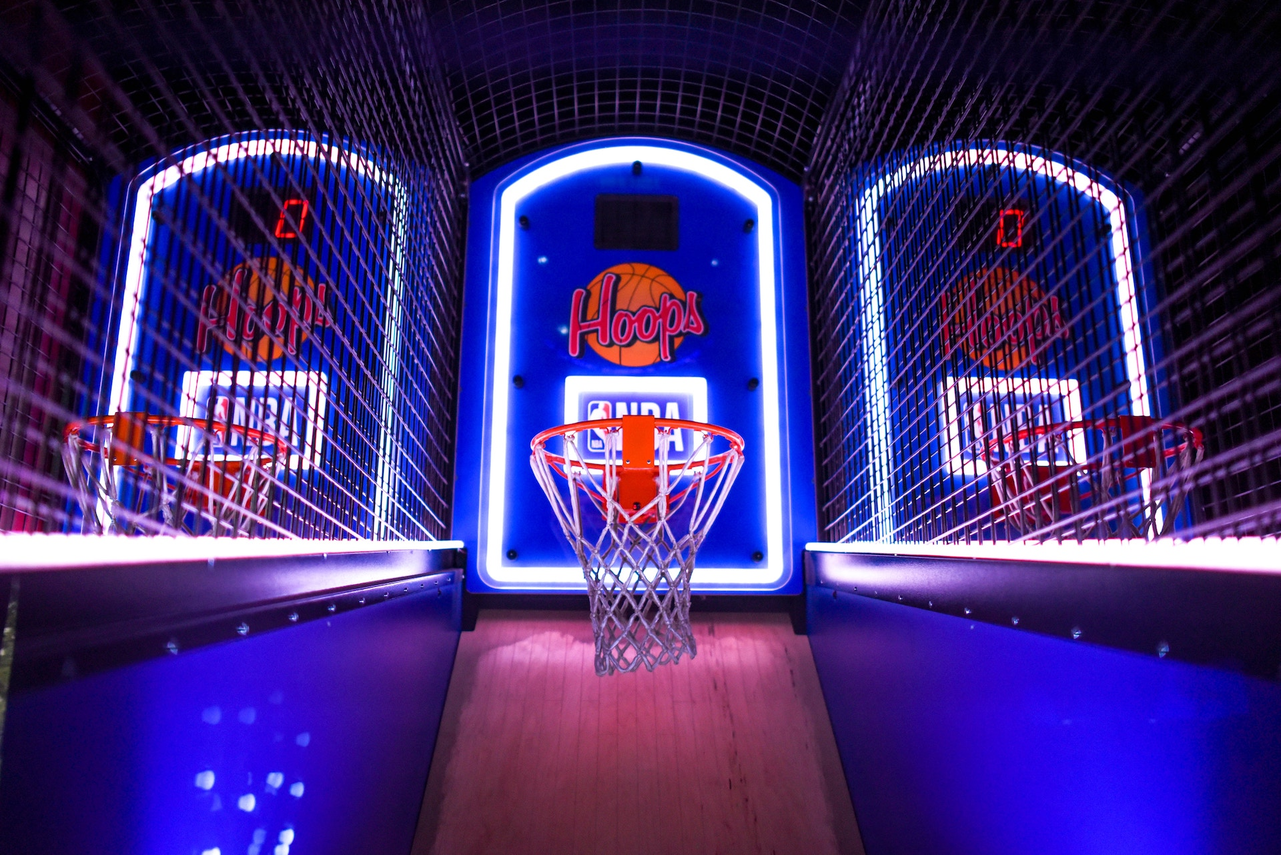
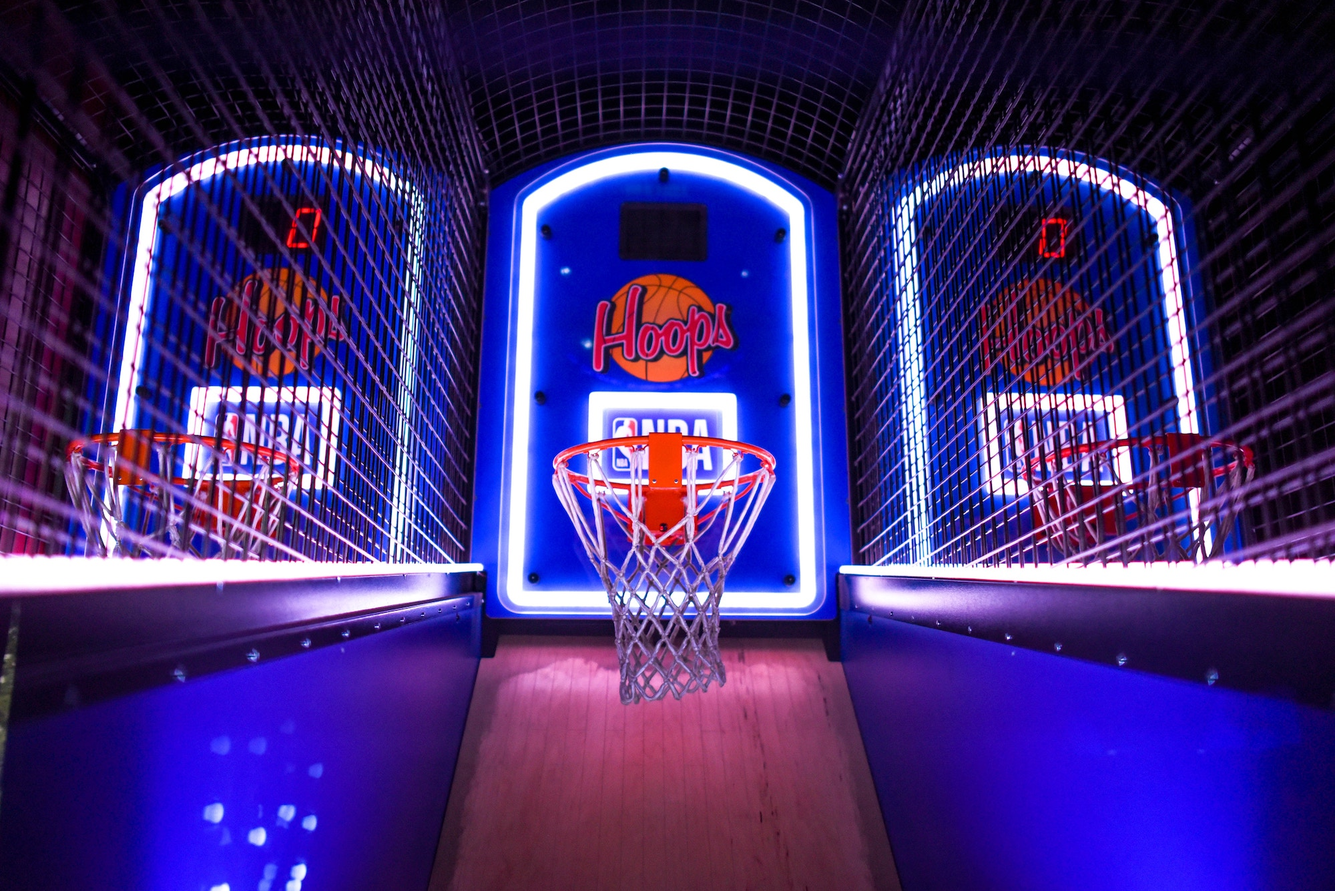
Reduce number of responsive images from four to three

diff --git a/pages/index.js b/pages/index.js
@@ -16,39 +16,44 @@ export default () => (
 
       <Featured>
         <Card1
-          s="/static/s-lemur.jpg"
-          m="/static/m-lemur.jpg"
-          l="/static/l-lemur.jpg"
-          xl="/static/xl-lemur.jpg"
+          s="/static/s-tide.jpg"
+          m="/static/m-tide.jpg"
+          l="/static/l-tide.jpg"
         />
         <MiddleSet>
+          <Card2
+            s="/static/s-lemur.jpg"
+            m="/static/m-lemur.jpg"
+            l="/static/l-lemur.jpg"
+            summaryTitle="This is a headline."
+            summaryBlurb="This is an article summary. You should definitely read this."
+            endpoint="/introducing_liquify"
+          />
           <Card2
             s="/static/s-hoops.jpg"
             m="/static/m-hoops.jpg"
             l="/static/l-hoops.jpg"
-            xl="/static/xl-hoops.jpg"
             summaryTitle="Laws need expiration dates. Voters need to keep score."
             summaryBlurb="Proposing laws that are designed to self-destruct is easy. Deciding whether or not to renew them takes careful planning."
+            endpoint="/introducing_liquify"
           />
           <Card2
-            s="/static/s-pic3.jpg"
-            m="/static/m-pic3.jpg"
-            l="/static/l-pic3.jpg"
-            xl="/static/xl-pic3.jpg"
-          />
-          <Card2
-            s="/static/s-pic2.jpg"
-            m="/static/m-pic2.jpg"
-            l="/static/l-pic2.jpg"
-            xl="/static/xl-pic2.jpg"
+            s="/static/s-flagwall.jpg"
+            m="/static/m-flagwall.jpg"
+            l="/static/l-flagwall.jpg"
+            summaryTitle="This is a headline."
+            summaryBlurb="This is an article summary. You should definitely read this."
+            endpoint="/introducing_liquify"
           />
         </MiddleSet>
         <Card2
           bigSideMargin
-          s="/static/s-pic1.jpg"
-          m="/static/m-pic1.jpg"
-          l="/static/l-pic1.jpg"
-          xl="/static/xl-pic1.jpg"
+          s="/static/s-liquify.jpg"
+          m="/static/m-liquify.jpg"
+          l="/static/l-liquify.jpg"
+          summaryTitle="This is a headline."
+          summaryBlurb="This is an article summary. You should definitely read this."
+          endpoint="/introducing_liquify"
         />
       </Featured>
 

diff --git a/components/Card1.js b/components/Card1.js
@@ -2,26 +2,25 @@ import React from 'react'
 import Link from 'next/link'
 import styled, { css } from 'styled-components'
 
-export default ({s, m, l, xl}) => (
+export default ({ s, m, l }) => (
   <Link href="/say_what">
     <Container>
       <ImageWrapper>
         <StyledImage
           srcSet={`${s} 640w,
                   ${m} 1024w,
-                  ${l} 1920w,
-                  ${xl} 2000w`}
+                  ${l} 2000w`}
           sizes="(max-width: 375px) 340px,
                 (max-width: 576px) 540px,
                 (max-width: 768px) 730px,
                 710px"
-          src={`${l}`}
+          src={`${m}`}
           alt="image"
         />
       </ImageWrapper>
       <SummaryContainer>
-        <SummaryTitle>The moment when you realize you are your government.</SummaryTitle>
-        <SummaryBlurb>That's right. You created this mess, but everything that is done can be undone, and liquid democracy gives you the power to turn this ship around.</SummaryBlurb>
+        <SummaryTitle>This is a headline.</SummaryTitle>
+        <SummaryBlurb>This is an article summary. You should definitely read this.</SummaryBlurb>
       </SummaryContainer>
     </Container>
   </Link>

diff --git a/components/PostLayout.js b/components/PostLayout.js
@@ -7,7 +7,7 @@ import InlineSubscribe from './InlineSubscribe'
 import Footer from './Footer'
 
 export default (props) => {
-  const {s, m, l, xl} = props
+  const { s, m, l } = props
   return (
     <Container>
       <Meta title={props.metaTitle} description={props.metaBlurb}/>
@@ -24,13 +24,12 @@ export default (props) => {
         <StyledImage
           srcSet={`${s} 640w,
                   ${m} 1024w,
-                  ${l} 1920w,
-                  ${xl} 2000w`}
+                  ${l} 2000w`}
           sizes="(max-width: 376px) 376px,
                 (max-width: 576px) 576px,
                 (max-width: 768px) 768px,
                 1000px"
-          src={`${xl}`}
+          src={`${l}`}
           alt="image"
         />
       </ImageWrapper>

diff --git a/components/Card2.js b/components/Card2.js
@@ -2,15 +2,14 @@ import React from 'react'
 import Link from 'next/link'
 import styled, { css } from 'styled-components'
 
-export default ({bigSideMargin, s, m, l, xl, summaryTitle, summaryBlurb}) => (
-  <Link href="/introducing_liquify">
+export default ({ bigSideMargin, s, m, l, summaryTitle, summaryBlurb, endpoint }) => (
+  <Link href={endpoint}>
     <Container bigSideMargin={bigSideMargin}>
       <ImageWrapper>
         <StyledImage
           srcSet={`${s} 640w,
                   ${m} 1024w,
-                  ${l} 1920w,
-                  ${xl} 2000w`}
+                  ${l} 2000w`}
           sizes="(max-width: 375px) 340px,
                 (max-width: 576px) 540px,
                 (max-width: 768px) 730px,

diff --git a/pages/introducing_liquify.js b/pages/introducing_liquify.js
@@ -14,7 +14,6 @@ export default () => (
     s="/static/s-hoops.jpg"
     m="/static/m-hoops.jpg"
     l="/static/l-hoops.jpg"
-    xl="/static/xl-hoops.jpg"
   >
     <Container>
       <div><FirstWord>Liquid</FirstWord> democracy allows voters (not their representatives) to decide if/when individual bills should be made into law. This can be an intimidating task, especially for citizens who don't have a lot of time to research public policy issues.</div>

diff --git a/components/Header.js b/components/Header.js
@@ -69,7 +69,7 @@ const Container = styled.div`
   justify-content: space-between;
 
 ${'' /* Use x-large image by default */}
-  background-image: url("/static/xl-header.jpg");
+  background-image: url("/static/l-header.jpg");
   background-position: center center;
   background-size: cover;
   background-color: black;

diff --git a/pages/_template.js b/pages/_template.js
@@ -14,7 +14,6 @@ export default () => (
     s="/static/s-header.jpg"
     m="/static/m-header.jpg"
     l="/static/l-header.jpg"
-    xl="/static/xl-header.jpg"
   >
     <Container>
       <p><FirstWord>Liquid</FirstWord> democracy.</p>

diff --git a/pages/say_what.js b/pages/say_what.js
@@ -14,7 +14,6 @@ export default () => (
     s="/static/s-lemur.jpg"
     m="/static/m-lemur.jpg"
     l="/static/l-lemur.jpg"
-    xl="/static/xl-lemur.jpg"
   >
     <Container>
       <p><FirstWord>Liquid</FirstWord> democracy.</p>
